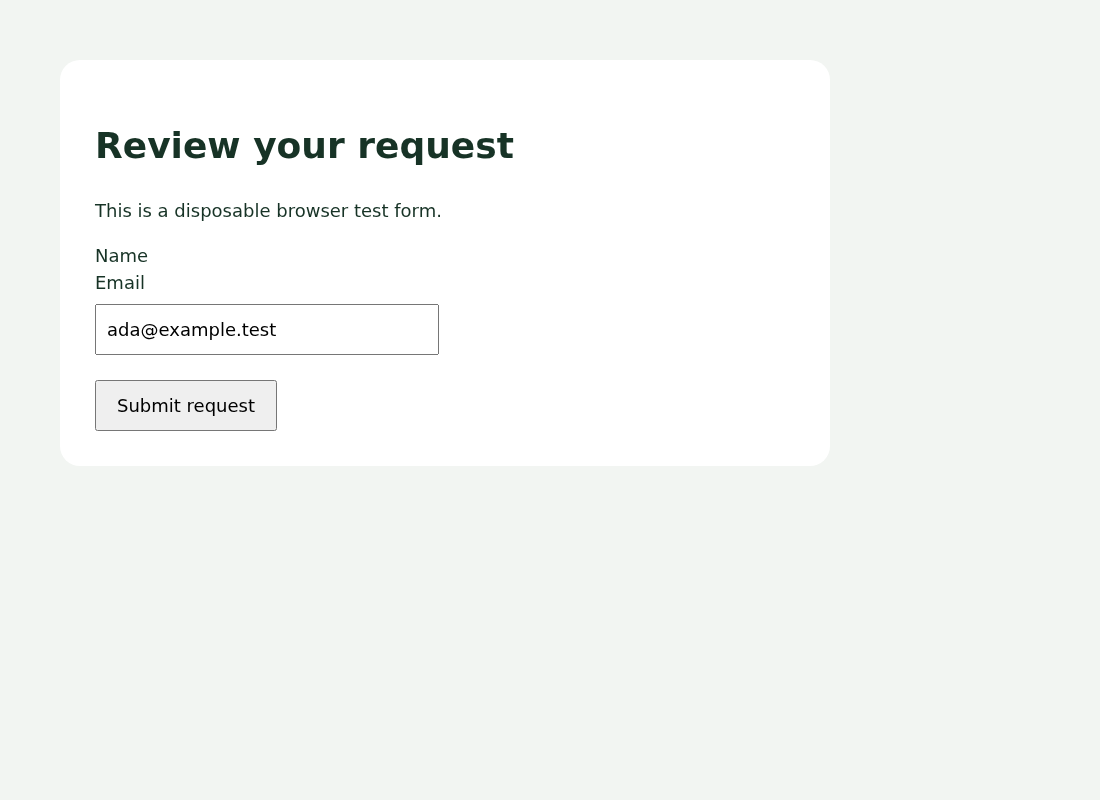
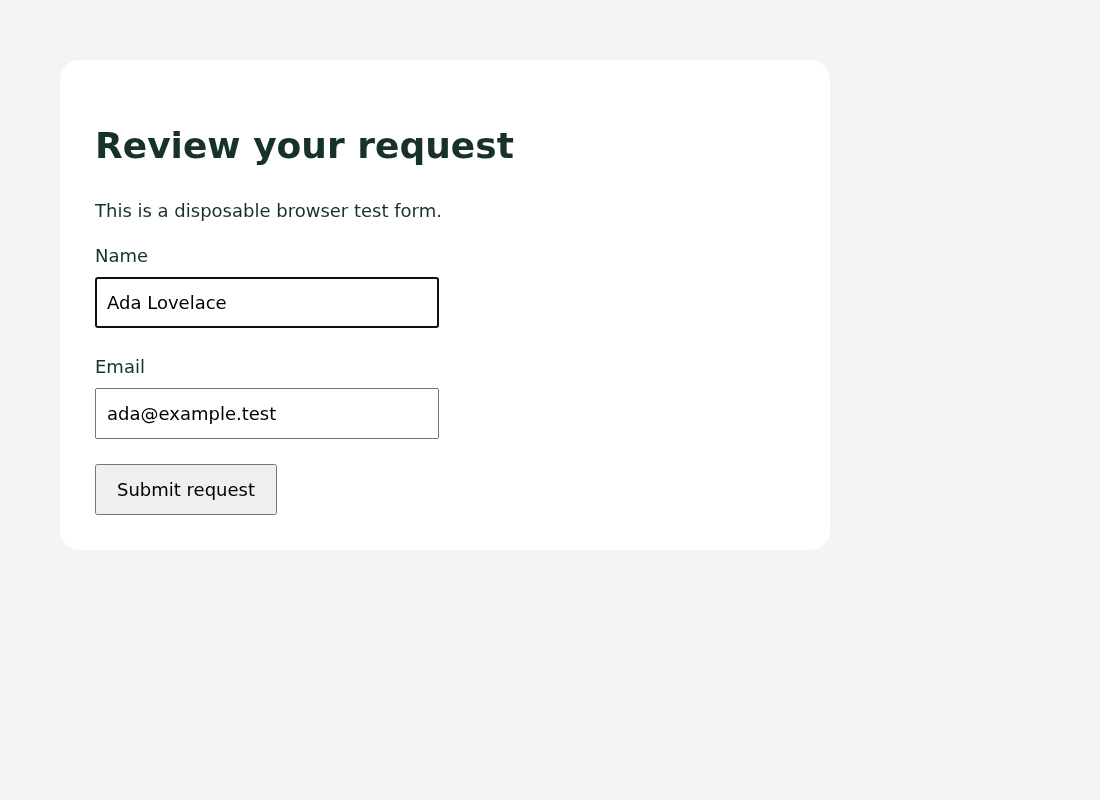
test(extension): avoid serial-client deadlock in handoff regression
A send on the same client waits behind its pending handoff; assert worker state and acknowledgment outcome before popup completion instead. Bound and handle the handoff promise to isolate cleanup failures.

Claude-Session: 62ff783b-99f4-4d41-8bdf-853b2fcb2ddb

diff --git a/packages/extension/src/worker.test.ts b/packages/extension/src/worker.test.ts
@@ -457,9 +457,15 @@ test("page events cannot acknowledge a pending handoff; only the installed popup
   const h = await setup();
   expect(await h.share()).toEqual({ ok: true });
   let acknowledged = false;
-  const handedBack = h.session.handoff("Please confirm").then(() => {
-    acknowledged = true;
-  });
+  let handoffError: unknown;
+  const handedBack = h.session.handoff("Please confirm", { timeoutMs: 2000 }).then(
+    () => {
+      acknowledged = true;
+    },
+    (error: unknown) => {
+      handoffError = error;
+    },
+  );
   await until(() => h.cdpCalls.some(({ method }) => method === "Runtime.evaluate"));
   expect(h.cdpCalls.some(({ method }) => method === "Runtime.addBinding")).toBe(false);
   for (const target of [consentTab.id, 99]) {
@@ -486,12 +492,11 @@ test("page events cannot acknowledge a pending handoff; only the installed popup
     handoff: { message: "Please confirm" },
   });
   expect(h.badge()).toBe("!");
-  expect(await h.session.send("browser_snapshot", {}, { timeoutMs: 2000 })).toMatchObject({
-    ok: false,
-    error: { code: "paused" },
-  });
+  // Agent sends queue behind handoff(), so awaiting one here would prevent this
+  // test from reaching the trusted Done action that releases that queue.
   expect(await h.message({ action: "done" })).toEqual({ ok: true });
   await handedBack;
+  expect(handoffError).toBeUndefined();
   expect(acknowledged).toBe(true);
   expect(await h.message({ action: "state" })).toMatchObject({ paused: false });
 });

diff --git a/packages/extension/src/session.ts b/packages/extension/src/session.ts
@@ -261,7 +261,7 @@ export class SharedSession {
       await this.peer.handoffDone(handoff.id);
       if (!this.state.sharing) return;
       this.state.handoff = undefined;
-      // Keep the command loop blocked until capability UI has been removed, so
+      // Keep the command loop blocked until attention UI has been removed, so
       // the next snapshot/action cannot see or hit extension controls.
       await this.onHandoff?.(undefined, this.state.expiresAt ?? "");
       if (!this.state.sharing || epoch !== this.pauseEpoch) return;
